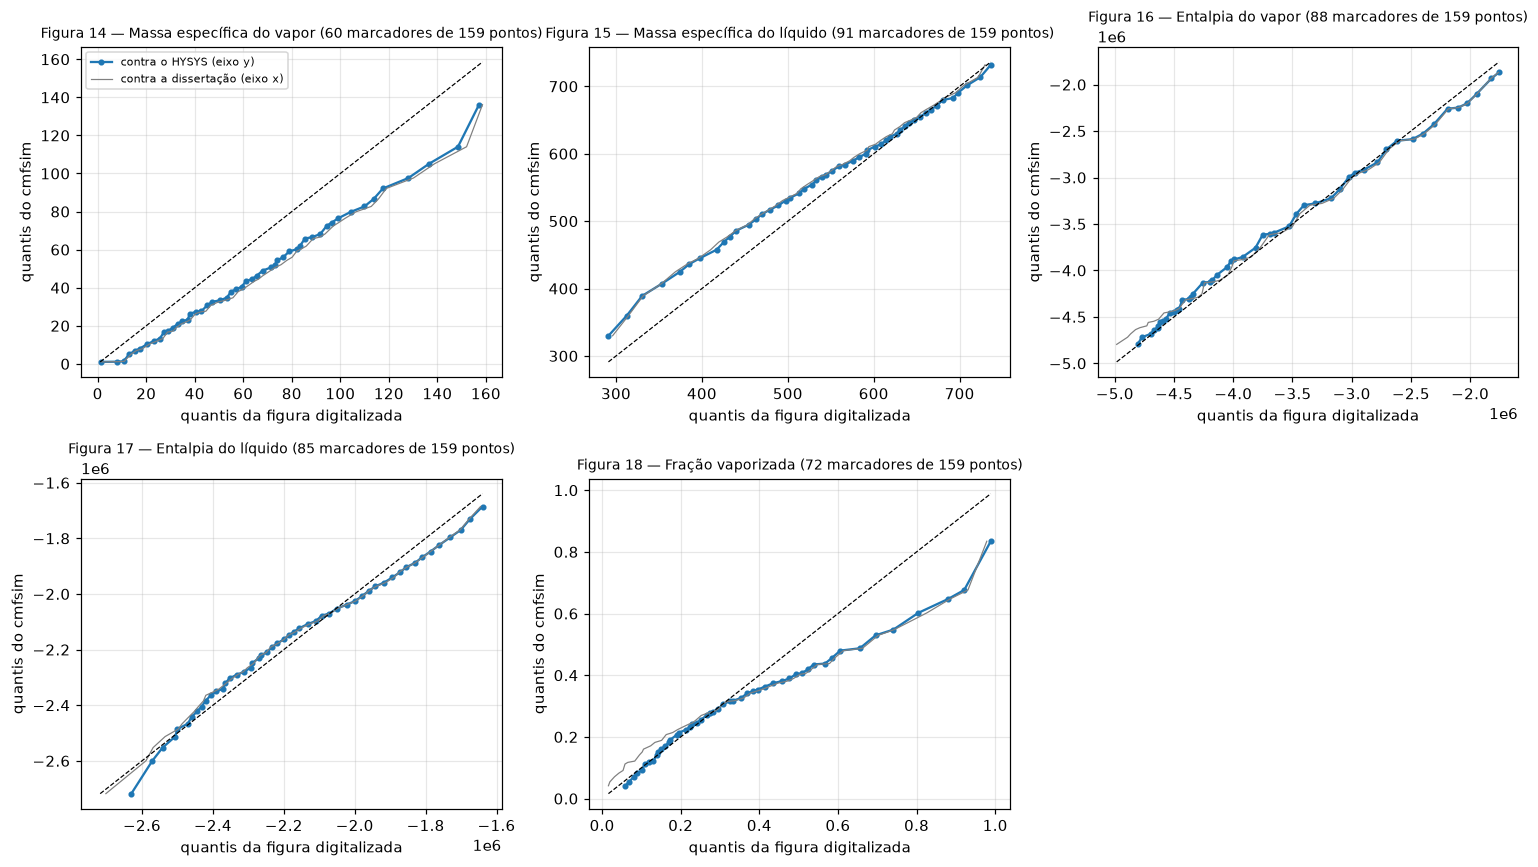
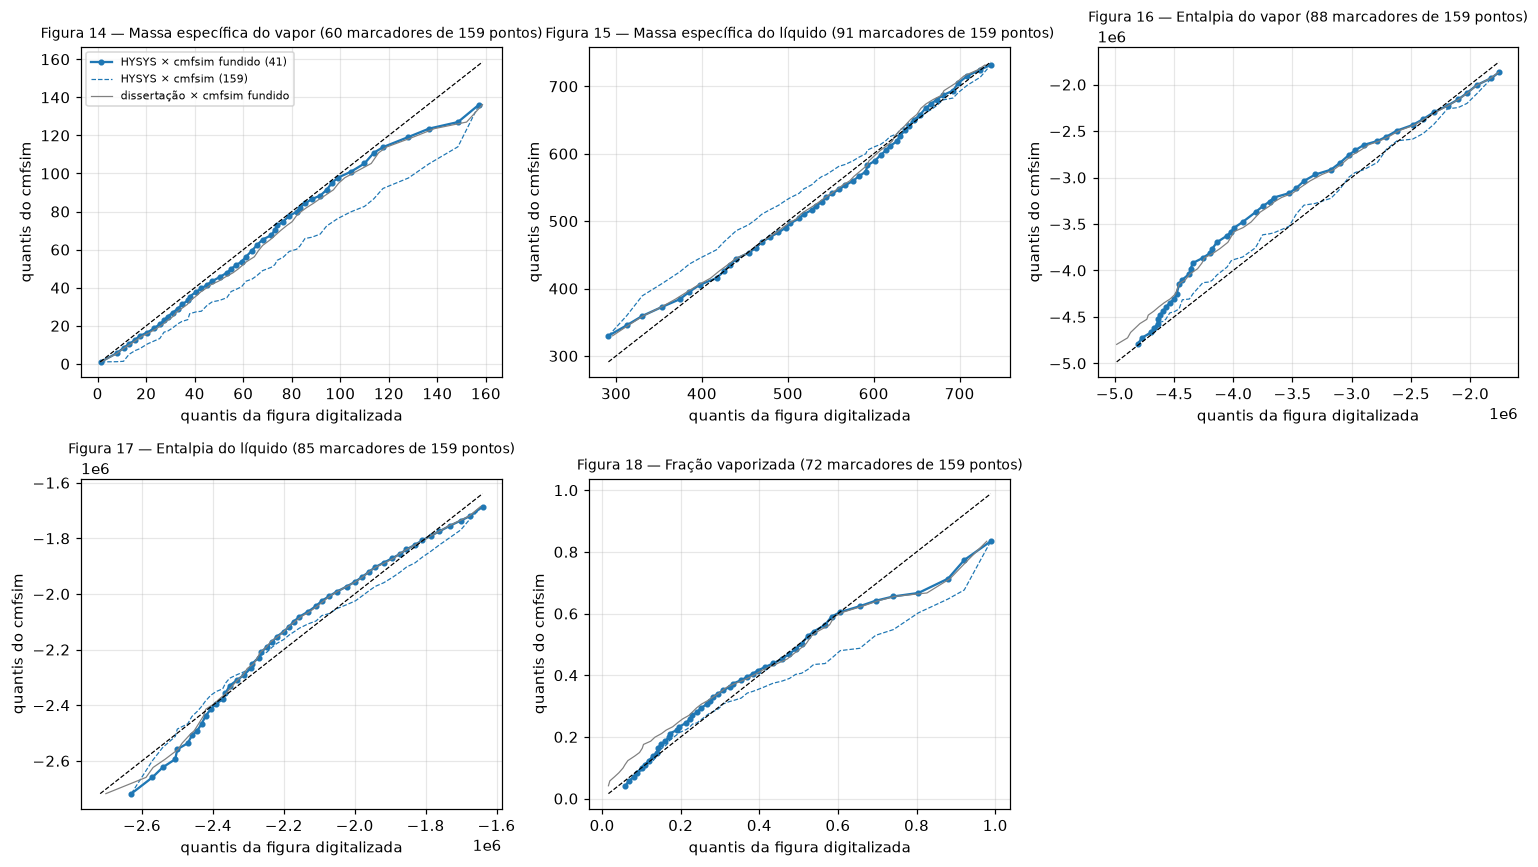
cmfsim: issue 008 fechada: o desvio aparente de 3–4x na viscosidade do líquido era um artefacto da digitalização (marcadores sobrepostos fundem-se: a Figura 20 tem 24 marcadores para 159 pontos); a formulação impressa na dissertação (pp. 83–84, eqs. 137–141: Nc_m = sum x_i Nc_i, A, B, C e a exponenc

diff --git a/01-multiphase-compositional-flow/notebooks_src/thesis/nb_5_2_viscosity_tension.py b/01-multiphase-compositional-flow/notebooks_src/thesis/nb_5_2_viscosity_tension.py
@@ -4,8 +4,9 @@
 # Correlações de Pedersen (vapor), Allan & Teja (líquido) e Brock & Bird (tensão) nos 159 pontos
 # da Figura 13, comparadas por distribuição (Q–Q) com os dois eixos das paridades digitalizadas:
 # o HYSYS (eixo y, a referência) e a implementação da dissertação (eixo x). Não há correspondência
-# ponto a ponto, e os marcadores sobrepostos fundem-se na digitalização (o número lido fica no
-# título de cada painel). Não simula.
+# ponto a ponto, e os marcadores sobrepostos fundem-se na digitalização (a Figura 20 tem 24
+# marcadores para 159 pontos), pelo que os nossos valores são fundidos da mesma maneira antes de
+# comparar (`merge_like_figure`). Não simula.
 # %%
 import sys
 from pathlib import Path
@@ -61,12 +62,15 @@ table(
 fig, axes = plt.subplots(1, 3, figsize=(15, 4.5))
 ratios = []
 for ax, (n, mine, lab) in zip(axes, ((19, st.mu_V, "μ_V"), (20, st.mu_L, "μ_L"), (21, st.sigma, "σ"))):
-    rh, rd = qq_parity(ax, figure(n), mine[two], int(two.sum()))
-    ratios.append((f"Figura {n} ({lab})", f"{rh:.3f}", f"{rd:.3f}"))
+    rm, rr, n_fig, n_m = qq_parity(ax, figure(n), mine[two], int(two.sum()))
+    ratios.append((f"Figura {n} ({lab})", n_fig, n_m, f"{rm:.3f}", f"{rr:.3f}"))
 axes[0].legend(fontsize=7)
 fig.tight_layout()
 save(fig, "nb_5_2_fig19_21_qq")
-table(ratios, ["figura", "mediana cmfsim / HYSYS", "mediana cmfsim / dissertação"])
+table(
+    ratios,
+    ["figura", "marcadores na figura", "cmfsim fundido", "mediana fundida / HYSYS", "mediana crua / HYSYS"],
+)
 print(
     "Tabela 12 (dissertação × HYSYS): R² 0,941 (vapor), 0,964 (líquido), 0,863 (tensão); sem os valores emparelhados do HYSYS não há R² equivalente aqui."
 )
@@ -74,10 +78,14 @@ print(
 # %% [markdown]
 # ## Viscosidade do líquido: a regra de mistura de Allan & Teja (issue 008)
 #
-# A nossa μ_L fica 3–4× abaixo do HYSYS e da implementação da dissertação, que concordam entre si
-# (medianas 0,70 e 0,54 mPa·s contra 0,18). O nC8 puro a 300 K dá 0,50 mPa·s (certo), logo a
-# diferença está na mistura: a dissertação não define o número de carbonos efetivo da mistura
-# (eq. 141, issue 001) e usamos a média molar. Alternativas testadas nos mesmos 159 estados:
+# Crua, a nossa distribuição de μ_L parece 3–4× abaixo do HYSYS e da dissertação (medianas 0,18
+# contra 0,70 e 0,54 mPa·s). É um artefacto: os 159 valores concentram-se em 0,1–0,3 mPa·s, que na
+# escala da Figura 20 (0–6 mPa·s em 1013 px) são 17–50 px, e fundem-se em meia dúzia de marcadores;
+# fundidos como a figura, os nossos valores dão 15–25 marcadores (a figura tem 24) com mediana
+# 0,57–0,73 mPa·s, igual à do HYSYS. A formulação impressa na dissertação (pp. 83–84, eqs.
+# 137–141: Nc_m = Σ x_i Nc_i, os mesmos A, B, C e a mesma exponencial) é a que implementámos, e o
+# nC8 puro a 300 K dá 0,50 mPa·s (medido 0,51). Para registo, as regras de mistura alternativas
+# nos mesmos 159 estados (sem fusão):
 # %%
 f20 = figure(20)
 _, (xd20, yd20) = next(iter(f20["series"].items()))
@@ -114,6 +122,7 @@ e8 = np.zeros((1, cs.n))
 e8[0, i8] = 1.0
 print(f"controlo: nC8 puro a 300 K = {1e3*allan_teja_viscosity(np.array([300.0]), e8, cs)[0]:.3f} mPa s (medido 0,51)")
 # %% [markdown]
-# Nenhuma regra de mistura simples fecha a diferença; a forma impressa de (141) e os Nc efetivos dos
-# não alcanos (CO₂, N₂, H₂S: hipótese Nc = 1 na issue 001) ficam como causas a investigar. O
-# Apêndice A horizontal, sensível a μ_L, é o lugar onde a diferença pesa (issues 005 e 008).
+# Lição de método: um Q–Q contra marcadores digitalizados tem de simular a fusão dos marcadores,
+# senão qualquer propriedade concentrada em valores baixos parece "abaixo" da figura. A
+# sensibilidade do Apêndice A horizontal a μ_L (×3 sobe a mediana de 0,43× para 0,52×) fica na
+# issue 008 como informação, não como correção.

diff --git a/01-multiphase-compositional-flow/dissertation/notebook_utils.py b/01-multiphase-compositional-flow/dissertation/notebook_utils.py
@@ -92,28 +92,53 @@ def table(rows, headers, fmt=None):
         print("| " + " | ".join(cells) + " |")
 
 
+def merge_like_figure(values, fig_data, diam_px=None):
+    """Funde os nossos valores como a digitalização funde os marcadores sobrepostos de uma paridade:
+    dois marcadores a menos de um diâmetro (em píxeis da figura, ao longo da diagonal) viram um só.
+    Devolve os valores fundidos (ordenados). `diam_px` por omissão vem da área do marcador na spec."""
+    import numpy as np
+
+    raw = fig_data["raw"]
+    s0 = raw["series"][0]
+    if diam_px is None:
+        area = s0.get("marker_area_px")
+        diam_px = 2.0 * np.sqrt(area / np.pi) if area else 12.0
+    xt = np.array(raw["axes"]["x"]["ticks"], float)
+    px_per_val = abs(xt[-1, 1] - xt[0, 1]) / abs(xt[-1, 0] - xt[0, 0])
+    tol = diam_px / (np.sqrt(2.0) * px_per_val)  # distância ao longo da diagonal x = y
+    v = np.sort(np.asarray(values)[np.isfinite(values)])
+    out = [v[0]]
+    for a in v[1:]:
+        if a - out[-1] > tol:
+            out.append(a)
+    return np.array(out)
+
+
 def qq_parity(ax, fig_data, mine, n_points, unit_scale=1.0, q=50):
     """Q–Q dos nossos valores contra os dois eixos de uma paridade digitalizada «Implementado vs
-    HYSYS» (Figuras 14–21): y = HYSYS (referência) a cheio, x = implementação da dissertação a
-    fino. As distribuições não são emparelhadas (não se sabe a que (P, T) corresponde cada
-    marcador) e os marcadores sobrepostos nas zonas densas fundem-se na digitalização, pelo que
-    o número de marcadores (`n`) fica no título: quanto menor em relação a `n_points`, mais
-    enviesada para os valores raros está a distribuição da figura."""
+    HYSYS» (Figuras 14–21): y = HYSYS (referência), x = implementação da dissertação. As
+    distribuições não são emparelhadas (não se sabe a que (P, T) corresponde cada marcador) e os
+    marcadores sobrepostos nas zonas densas fundem-se na digitalização, pelo que a comparação
+    honesta é com os nossos valores **fundidos da mesma maneira** (`merge_like_figure`), a cheio;
+    os 159 valores tal e qual ficam a tracejado. Devolve (mediana fundida/HYSYS, mediana crua/HYSYS,
+    n marcadores da figura, n marcadores fundidos)."""
     import numpy as np
 
     name, (xd, yd) = next(iter(fig_data["series"].items()))
     raw = fig_data["raw"]
     n_mark = raw["series"][0].get("n_markers", xd.size)
     m = np.sort(np.asarray(mine)[np.isfinite(mine)] * unit_scale)
+    mm = merge_like_figure(m, fig_data)
     qs = np.linspace(0, 1, q)
-    ax.plot(np.quantile(np.sort(yd), qs), np.quantile(m, qs), "o-", ms=3, label="contra o HYSYS (eixo y)")
+    ax.plot(np.quantile(np.sort(yd), qs), np.quantile(mm, qs), "o-", ms=3, label=f"HYSYS × cmfsim fundido ({mm.size})")
+    ax.plot(np.quantile(np.sort(yd), qs), np.quantile(m, qs), "--", lw=0.8, color="C0", label="HYSYS × cmfsim (159)")
     ax.plot(
         np.quantile(np.sort(xd), qs),
-        np.quantile(m, qs),
+        np.quantile(mm, qs),
         "-",
         lw=0.8,
         color="gray",
-        label="contra a dissertação (eixo x)",
+        label="dissertação × cmfsim fundido",
     )
     lo = min(xd.min(), yd.min(), m.min())
     hi = max(xd.max(), yd.max(), m.max())
@@ -124,4 +149,4 @@ def qq_parity(ax, fig_data, mine, n_points, unit_scale=1.0, q=50):
     ax.set_xlabel("quantis da figura digitalizada")
     ax.set_ylabel("quantis do cmfsim")
     ax.grid(alpha=0.3)
-    return float(np.median(m) / np.median(yd)), float(np.median(m) / np.median(xd))
+    return float(np.median(mm) / np.median(yd)), float(np.median(m) / np.median(yd)), int(n_mark), int(mm.size)

diff --git a/01-multiphase-compositional-flow/notebooks_src/thesis/nb_5_1_thermo.py b/01-multiphase-compositional-flow/notebooks_src/thesis/nb_5_1_thermo.py
@@ -147,18 +147,23 @@ fig, axes = plt.subplots(2, 3, figsize=(14, 8))
 pairs = [(14, st.rho_V), (15, st.rho_L), (16, st.h_V), (17, st.h_L), (18, st.beta)]
 ratios = []
 for ax, (n, mine) in zip(axes.ravel(), pairs):
-    rh, rd = qq_parity(ax, figure(n), mine, T.size)
-    ratios.append((f"Figura {n}", f"{rh:.3f}", f"{rd:.3f}"))
+    rm, rr, n_fig, n_m = qq_parity(ax, figure(n), mine, T.size)
+    ratios.append((f"Figura {n}", n_fig, n_m, f"{rm:.3f}", f"{rr:.3f}"))
 axes.ravel()[0].legend(fontsize=7)
 axes.ravel()[-1].axis("off")
 fig.tight_layout()
 save(fig, "nb_5_1_fig14_18_qq")
-table(ratios, ["figura", "mediana cmfsim / HYSYS", "mediana cmfsim / dissertação"])
+table(
+    ratios,
+    ["figura", "marcadores na figura", "cmfsim fundido", "mediana fundida / HYSYS", "mediana crua / HYSYS"],
+)
 # %% [markdown]
 # Leitura: a referência é o eixo HYSYS (y) das paridades; o eixo x é a implementação da
-# dissertação. Os quantis alinham-se na diagonal quando a distribuição dos nossos valores nos 159
-# pontos é a mesma que a da figura. Não há correspondência ponto a ponto, e os marcadores
-# sobrepostos nas zonas densas fundem-se na digitalização (número de marcadores no título): a
-# distribuição lida fica enviesada para os valores raros, o que exagera os desvios nas caudas
-# (Figuras 14 e 18, com 60 e 72 marcadores). Só valores emparelhados do HYSYS (decisão A2) dariam
-# R² como as Tabelas 10–11; o R² contra a `thermo` acima é a validação que temos.
+# dissertação. Não há correspondência ponto a ponto, e os marcadores sobrepostos nas zonas densas
+# fundem-se na digitalização (número de marcadores no título), o que enviesa a distribuição lida
+# para os valores raros. Por isso a curva a cheio funde os nossos 159 valores da mesma maneira
+# (dois valores a menos de um diâmetro de marcador viram um só) e reproduz o número de marcadores
+# da figura; a tracejada é a distribuição crua, que parece "abaixo" da figura só por causa da
+# fusão (Figura 14: mediana crua 0,70 do HYSYS, fundida 0,9–1,0). Só valores emparelhados do
+# HYSYS (decisão A2) dariam R² como as Tabelas 10–11; o R² contra a `thermo` acima é a validação
+# que temos.

diff --git a/01-multiphase-compositional-flow/docs/issues/008-viscosidade-do-liquido-allan-teja.md b/01-multiphase-compositional-flow/docs/issues/008-viscosidade-do-liquido-allan-teja.md
@@ -1,64 +1,72 @@
-# 008 · Viscosidade do líquido: a regra de mistura de Allan & Teja dá 3–4× menos do que a dissertação e o HYSYS
+# 008 · Viscosidade do líquido (Allan & Teja): o desvio aparente de 3–4× era um artefacto da digitalização; formulação confirmada
 
 | | |
 |---|---|
-| tipo | hipótese / estudo |
-| área | termodinâmica (propriedades de transporte, §2.5.2, eqs. 137–141) |
-| estado | aberto (2026-10-15): achado quantificado, causa por identificar; nada adotado |
-| onde | `cmfsim/thermo/viscosity.py` (`allan_teja_viscosity`), `notebooks_src/thesis/nb_5_2_viscosity_tension.py`, `dissertation/data/components.json` (`Nc_eff`) |
-| dados | Figura 20 digitalizada (paridade «Implementado vs HYSYS», 24 marcadores de 159 pontos), 159 estados (P, T) da Figura 13, fluido da Tabela 6; Apêndice A horizontal |
+| tipo | estudo |
+| área | termodinâmica (propriedades de transporte, §2.5.2, eqs. 137–141); método de comparação com as paridades digitalizadas |
+| estado | fechada (2026-10-15): nada a mudar no simulador; comparação por quantis corrigida |
+| onde | `cmfsim/thermo/viscosity.py` (`allan_teja_viscosity`), `dissertation/notebook_utils.py` (`merge_like_figure`, `qq_parity`), `notebooks_src/thesis/nb_5_1_thermo.py`, `nb_5_2_viscosity_tension.py` |
+| dados | Figuras 14–21 digitalizadas (paridades «Implementado vs HYSYS»), 159 estados (P, T) da Figura 13, fluido da Tabela 6; Apêndice A horizontal |
 
-## O achado
+## O que parecia
 
-Nos 159 estados da Figura 13 (fluido da Tabela 6, todos bifásicos com T em kelvin; o notebook 5.2
-somava 273,15 a temperaturas já em kelvin e comparava 155 estados fora do envelope, corrigido
-nesta issue), a distribuição da nossa viscosidade do líquido fica 3–4× abaixo das duas da Figura
-20, que concordam entre si:
+O notebook 5.2 somava 273,15 a temperaturas já em kelvin (155 dos 159 estados fora do envelope;
+corrigido). Com os estados certos, a distribuição da nossa viscosidade do líquido nos 159 pontos
+parecia 3–4× abaixo das duas da Figura 20 (HYSYS no eixo y, implementação da dissertação no eixo
+x), em todos os quantis (medianas 0,18 contra 0,70 e 0,54 mPa·s), e a da massa específica do
+vapor (Figura 14) 0,70× a do HYSYS.
 
-| μ_L [mPa·s] | q05 | q25 | q50 | q75 | q95 |
-|---|---|---|---|---|---|
-| HYSYS (eixo y da Figura 20) | 0,116 | 0,442 | 0,699 | 1,165 | 3,749 |
-| implementação da dissertação (eixo x) | 0,160 | 0,341 | 0,540 | 0,894 | 3,513 |
-| cmfsim, Nc efetivo médio molar (atual) | 0,100 | 0,128 | 0,175 | 0,292 | 0,891 |
-| cmfsim, Nc efetivo médio mássico | 0,122 | 0,158 | 0,226 | 0,397 | 1,640 |
-| cmfsim, ln μ médio molar dos puros | 0,087 | 0,115 | 0,158 | 0,262 | 0,809 |
+## A formulação
 
-As distribuições não são emparelhadas e a Figura 20 só tem 24 marcadores legíveis (os sobrepostos
-fundem-se), o que enviesa a distribuição da figura para os valores raros; mas a razão de 3–4× é
-muito maior do que esse viés e aparece em todos os quantis. O nC8 puro a 300 K dá 0,503 mPa·s
-(medido 0,51): a correlação (137–140) está bem; o problema está na **mistura**. A dissertação não
-define o número de carbonos efetivo da mistura (eq. 141, marcada ⚠ no índice de equações) nem os
-Nc efetivos de CO₂, N₂ e H₂S (hipótese Nc = 1 na issue 001); usamos Nc_m = Σ x_i Nc_i. Nenhuma
-regra de mistura simples fecha a diferença (a mássica sobe 30 %).
+A fonte original (Allan & Teja, Can. J. Chem. Eng. 69, 986–991, 1991) está atrás de paywall e as
+fontes secundárias encontradas (Orbey & Sandler 1993; estudos de misturas de álcoois; revisões de
+correlações) não reproduzem a regra de mistura; a única referência verificável é a própria
+dissertação, pp. 83–84, que imprime:
 
-Candidatos a investigar (por ordem): (1) a forma impressa de (141) pode não ser uma média: Allan &
-Teja (1991) definem o Nc efetivo de um componente não alcano pela viscosidade de referência, e
-para a mistura há variantes com média em fração mássica ou com pesos de MW; (2) os Nc efetivos
-dos não alcanos; (3) a dissertação pode avaliar a correlação à composição global ou com outra
-unidade de temperatura; (4) o HYSYS usa outro método (o eixo x, que é a dissertação, está perto
-do HYSYS, logo o que falta está do nosso lado).
+- (137) Nc_m = Σ x_i Nc_i, com Nc igual ao número de carbonos para n-alcanos;
+- (138–140) A = 145,73 + 99,01 Nc_m + 0,83 Nc_m² − 0,125 Nc_m³; B = 30,48 + 34,01 Nc_m − 1,23 Nc_m² +
+  0,017 Nc_m³; C = −3,07 − 1,99 Nc_m;
+- (141) η_L = exp[A(−1/B + 1/(T + C))].
 
-## Onde pesa: Apêndice A horizontal
+É exatamente o que `allan_teja_viscosity` faz (com o fator 1e-3 de cP para Pa·s; o texto não diz a
+unidade). O nC8 puro a 300 K dá 0,503 mPa·s (medido 0,51). O ⚠ de (141) no índice de equações fica
+levantado.
 
-A issue 005 registou os casos horizontais a ~0,4× a dissertação e apontou a viscosidade do
-líquido como sensibilidade. Teste direto (`allan_teja_viscosity` × 3, 10 casos horizontais e 5
-verticais do lote `batches/dp_comparison.json`, método 3.2 em JAX):
+## O artefacto
 
-| | cmfsim/dissertação, mediana | casos a < 25 % |
-|---|---|---|
-| horizontal, μ_L atual | 0,43 | 0 / 10 |
-| horizontal, μ_L × 3 | 0,52 | 1 / 10 |
-| vertical, μ_L atual | 1,05 | 5 / 5 |
-| vertical, μ_L × 3 | 1,05 | 5 / 5 |
+As paridades são imagens; os marcadores sobrepostos fundem-se em componentes conexas e a
+digitalização conta-os uma vez (a Figura 20 tem 24 marcadores para 159 pontos, a 14 tem 60, a 18
+tem 72). Os nossos 159 valores de μ_L concentram-se em 0,1–0,3 mPa·s, que na escala da Figura 20
+(0–6 mPa·s em 1013 px) ocupam 17–50 px: fundem-se em meia dúzia de marcadores, e a distribuição
+lida fica dominada pelos valores raros e altos. Simulando a fusão nos nossos valores (dois valores a
+menos de um diâmetro de marcador ao longo da diagonal viram um só; `merge_like_figure`, diâmetro
+da área do marcador na spec):
 
-Por caso horizontal, μ_L × 3 sobe a razão de 0,32–0,62 para 0,40–0,77 (mais nos casos de 4 in,
-intermitentes; quase nada nos de 8–10 in, estratificados). Logo a viscosidade explica uma parte
-pequena do défice horizontal; o grosso continua na leitura dos fechamentos horizontais (issue 005:
-anular/estratificado contra a dissertação). O vertical não mexe.
+| figura | marcadores na figura | cmfsim fundido (6 / 10 / 14 px) | mediana crua / HYSYS | mediana fundida / HYSYS |
+|---|---|---|---|---|
+| 20, μ_L | 24 | 25 / 20 / 15 | 0,25 | 0,82 / 1,04 / 1,02 |
+| 14, ρ_V | 60 | 64 / 45 / 38 | 0,70 | 0,86 / 0,94 / 0,96 |
+| 18, β | 72 | 62 / 43 / 35 | 0,99 | 1,06 / 1,08 / 1,13 |
+| 15, ρ_L | 91 | 68 / 57 / 46 | 1,04 | 0,99 / 1,01 / 0,98 |
+| 21, σ | 110 | 84 / 64 / 49 | 0,83 | 0,94 / 1,00 / 1,01 |
+| 19, μ_V | 86 | 59 / 41 / 32 | 0,89 | 0,83 / 0,85 / 0,83 |
 
-## Decisão
+Fundidos, os nossos valores reproduzem o número de marcadores e a distribuição da figura em μ_L,
+ρ_V, β, ρ_L e σ. A única propriedade com desvio consistente é a viscosidade do vapor (Pedersen):
+~15 % abaixo do HYSYS em todas as leituras, com dispersão menor (q95 18,8 contra 22,8 µPa·s), o que
+é coerente com o que a dissertação diz da correlação de Pedersen para componentes mais pesados.
 
-Nada adotado: `Nc_eff` e a média molar ficam como estão (default = leitura literal), o notebook
-5.2 mostra o painel e a tabela acima, e a investigação fica em aberto até se ler Allan & Teja
-(1991) na fonte ou se ter o código do autor. Se se confirmar outra regra, entra como opção com
-bandeira em `FlashOptions`/`ComponentSet` (regra 2).
+## Sensibilidade do Apêndice A horizontal a μ_L (informação, não correção)
+
+Teste direto (`allan_teja_viscosity` × 3, 10 casos horizontais e 5 verticais do lote
+`batches/dp_comparison.json`, método 3.2 em JAX): a mediana cmfsim/dissertação horizontal sobe de
+0,43 para 0,52 (mais nos casos de 4 in, intermitentes; quase nada nos de 8–10 in, estratificados);
+a vertical fica em 1,05. A viscosidade do líquido não é a causa do défice horizontal (issue 005).
+
+## Decisão e lição
+
+Nada muda no simulador. A comparação por quantis dos notebooks 5.1 e 5.2 passa a fundir os nossos
+valores como a figura (curva a cheio) e a mostrar a distribuição crua a tracejado; o número de
+marcadores lido e o fundido ficam na tabela. Regra para o futuro: um Q–Q contra marcadores
+digitalizados sem simular a fusão é enganador sempre que a propriedade se concentra em valores
+baixos.

diff --git a/01-multiphase-compositional-flow/docs/issues/INDEX.md b/01-multiphase-compositional-flow/docs/issues/INDEX.md
@@ -15,4 +15,4 @@ informação, registada para ser revista).*
 | [005](005-modelo-mecanistico-diferencas-finitas.md) | feature / hipótese / estudo | Modelo mecanicista com escorregamento por diferenças finitas e Newton | Powell sem Jacobiana, convergência frágil nas mudanças de fase → Newton com Jacobiana colorida exata, forma algébrica da massa e fluxo m v/A suaves; consistência com a marcha a 4 Pa |
 | [006](006-vmap-e-desempenho.md) | feature / estudo | Parâmetros como argumentos, `march_many` (jit + vmap) e o custo por avaliação | recompilação por caso → uma compilação por estrutura; 175 ms por marcha compilada; vmap idêntico ao individual; próximos ganhos identificados |
 | [007](007-arranque-quente-do-flash.md) | feature / bugfix | Arranque quente do flash ao longo de x, Rachford–Rice nos extremos e novos defaults do flash | Wilson em todos os flashes → K do flash anterior, resultado idêntico, ganho modesto (o custo está no polimento, medido); bisseção de Rachford–Rice corrigida nos extremos; flash da entrada dentro do jit |
-| [008](008-viscosidade-do-liquido-allan-teja.md) | hipótese / estudo | Viscosidade do líquido: a regra de mistura de Allan & Teja dá 3–4× menos do que a dissertação e o HYSYS | notebook 5.2 com 155 estados fora do envelope (kelvin) → corrigido; μ_L 3–4× abaixo nos 159 estados; μ_L × 3 sobe o Apêndice A horizontal de 0,43× para 0,52×; causa por identificar, nada adotado |
+| [008](008-viscosidade-do-liquido-allan-teja.md) | estudo | Viscosidade do líquido (Allan & Teja): o desvio aparente de 3–4× era um artefacto da digitalização; formulação confirmada | notebook 5.2 com 155 estados fora do envelope (kelvin) → corrigido; Q–Q contra marcadores fundidos → fundindo os nossos valores como a figura, μ_L, ρ_V, β, ρ_L e σ reproduzem o HYSYS; eqs. 137–141 da dissertação = implementação; μ_V ~15 % abaixo (Pedersen); Apêndice A horizontal pouco sensível a μ_L |

diff --git a/01-multiphase-compositional-flow/docs/README.md b/01-multiphase-compositional-flow/docs/README.md
@@ -102,9 +102,10 @@ mesmo dia; o registo vivo está no [README do projeto](../README.md), no
 
 - **Termodinâmica** (fase 1): PR + flash reproduzem a biblioteca `thermo` a 1e-7; o polimento de
   Newton dá derivadas exatas por AD; num estado a `thermo` falha e o cmfsim acerta (issue 002).
-  Contra o eixo HYSYS das paridades digitalizadas (distribuições, não pares): ρ_L, entalpias e
-  fração vaporizada a 1–4 % na mediana, μ_V 0,89, σ 0,83; a viscosidade do líquido fica 3–4×
-  abaixo do HYSYS e da dissertação (regra de mistura de Allan & Teja, issue 008).
+  Contra o eixo HYSYS das paridades digitalizadas (distribuições com a fusão de marcadores
+  simulada, não pares): ρ_V, ρ_L, entalpias, fração vaporizada, μ_L e σ reproduzem o HYSYS na
+  mediana a < 10 %; μ_V (Pedersen) fica ~15 % abaixo (issue 008, que também confirma a
+  formulação de Allan & Teja da dissertação).
 - **Padrões** (fase 2): os mapas ar–água das Figuras 22–23 reproduzem-se a 91 % e 95 % ponto a
   ponto; a dissertação usou o limite de vazio 0,52 de Taitel (omitido no texto), σ = 0,072 e a
   forma de Taitel em (34) (issue 003).

diff --git a/01-multiphase-compositional-flow/README.md b/01-multiphase-compositional-flow/README.md
@@ -37,7 +37,7 @@ reproduzem todas as figuras e tabelas da secção com o cmfsim sobreposto.
 | notebook | secção | reproduz | corridas necessárias |
 |---|---|---|---|
 | `nb_5_1_thermo` | 5.1 | Figura 13 (envelope e 159 pontos), Figuras 14–18 (quantis contra o eixo HYSYS e o eixo da dissertação), Tabelas 10–11 (R² contra o oráculo `thermo`) | nenhuma (cálculo termodinâmico instantâneo) |
-| `nb_5_2_viscosity_tension` | 5.2 | Figuras 19–21 (quantis contra o eixo HYSYS), Tabela 12, regra de mistura de Allan & Teja (issue 008) | nenhuma |
+| `nb_5_2_viscosity_tension` | 5.2 | Figuras 19–21 (quantis contra o eixo HYSYS, com a fusão de marcadores simulada), Tabela 12, regras de mistura de Allan & Teja (issue 008) | nenhuma |
 | `nb_5_3_patterns` | 5.3 | Figuras 22–23 (mapas ar–água ponto a ponto e acerto por classe), Tabelas 13–14, sensibilidade às leituras | nenhuma |
 | `nb_5_4_dp_comparison` | 5.4 | Figuras 24–30, Tabelas 15–18, Apêndice A (desvios por modelo) | `batches/dp_comparison.json` |
 | `nb_5_5_offshore` | 5.5 | Figuras 31–37, Tabelas 19–22 | `batches/dissertation.json` (offshore) |
